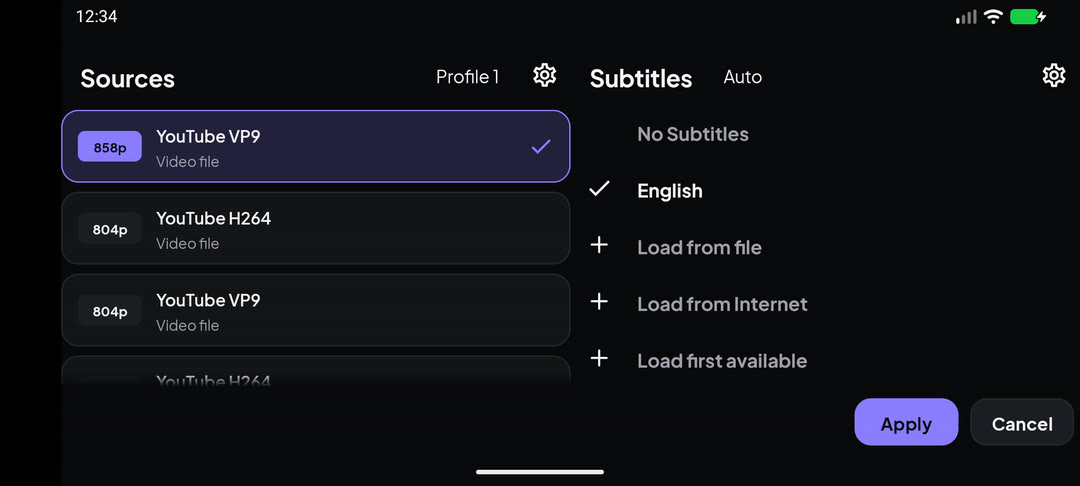
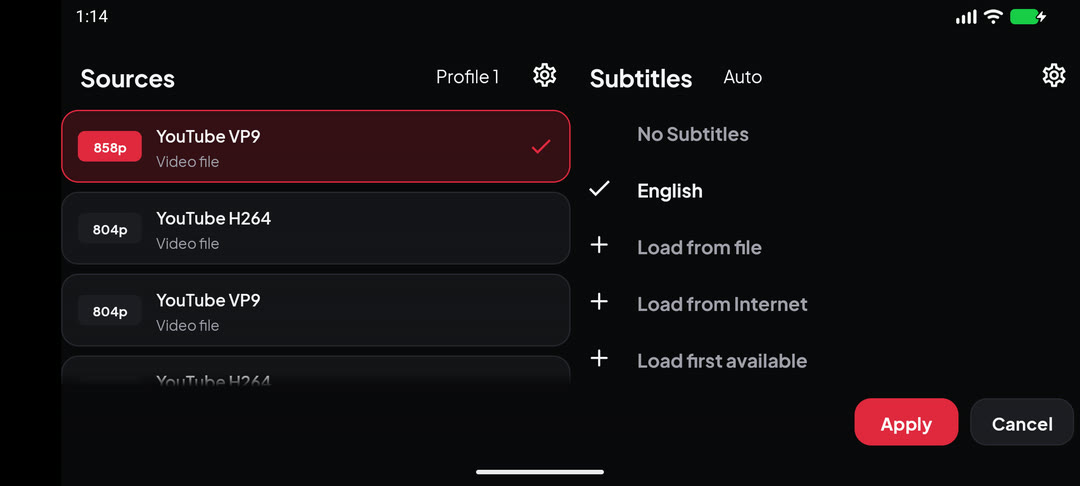
Use a crimson accent instead of violet
The default accent becomes crimson #E0283E (white text on it passes WCAG AA at 4.6:1; on the dark base it reads at 4.3:1), so text and icons on accent surfaces turn white. Other themes and accent choices from the settings keep their upstream colors.

The resume button's label, icon and progress ring follow colorOnPrimary instead of upstream's dark colors (they were made for a white button), with tighter letter spacing so long episode names fit. README text and screenshots updated.

diff --git a/shared/src/commonMain/kotlin/com/lagradost/cloudstream4/skia/SkiaTheme.kt b/shared/src/commonMain/kotlin/com/lagradost/cloudstream4/skia/SkiaTheme.kt
@@ -36,7 +36,9 @@ object SkiaTheme {
     val line = Color(0xFF26262E)
     val text = Color(0xFFF5F5F7)
     val textMuted = Color(0xFFA0A0AB)
-    val accent = Color(0xFF8B7CFF)
+    val accent = Color(0xFFE0283E)
+
+    /** Text on light accent colors; the Skia crimson itself takes white text. */
     val onAccent = Color(0xFF0B0A14)
 
     val fontFamily: FontFamily

diff --git a/README.md b/README.md
@@ -44,7 +44,7 @@ Good to know:
 Skia keeps every CloudStream feature and works with every CloudStream extension. On phones
 it changes:
 
-- **Look:** a darker base, one violet accent, Plus Jakarta Sans as the interface font, and
+- **Look:** a darker base, one crimson accent, Plus Jakarta Sans as the interface font, and
   rounder cards and buttons. Other themes and accent colors from the settings still work.
 - **Navigation:** a floating bottom bar with labels; the source picker sits at the top of
   Home.
